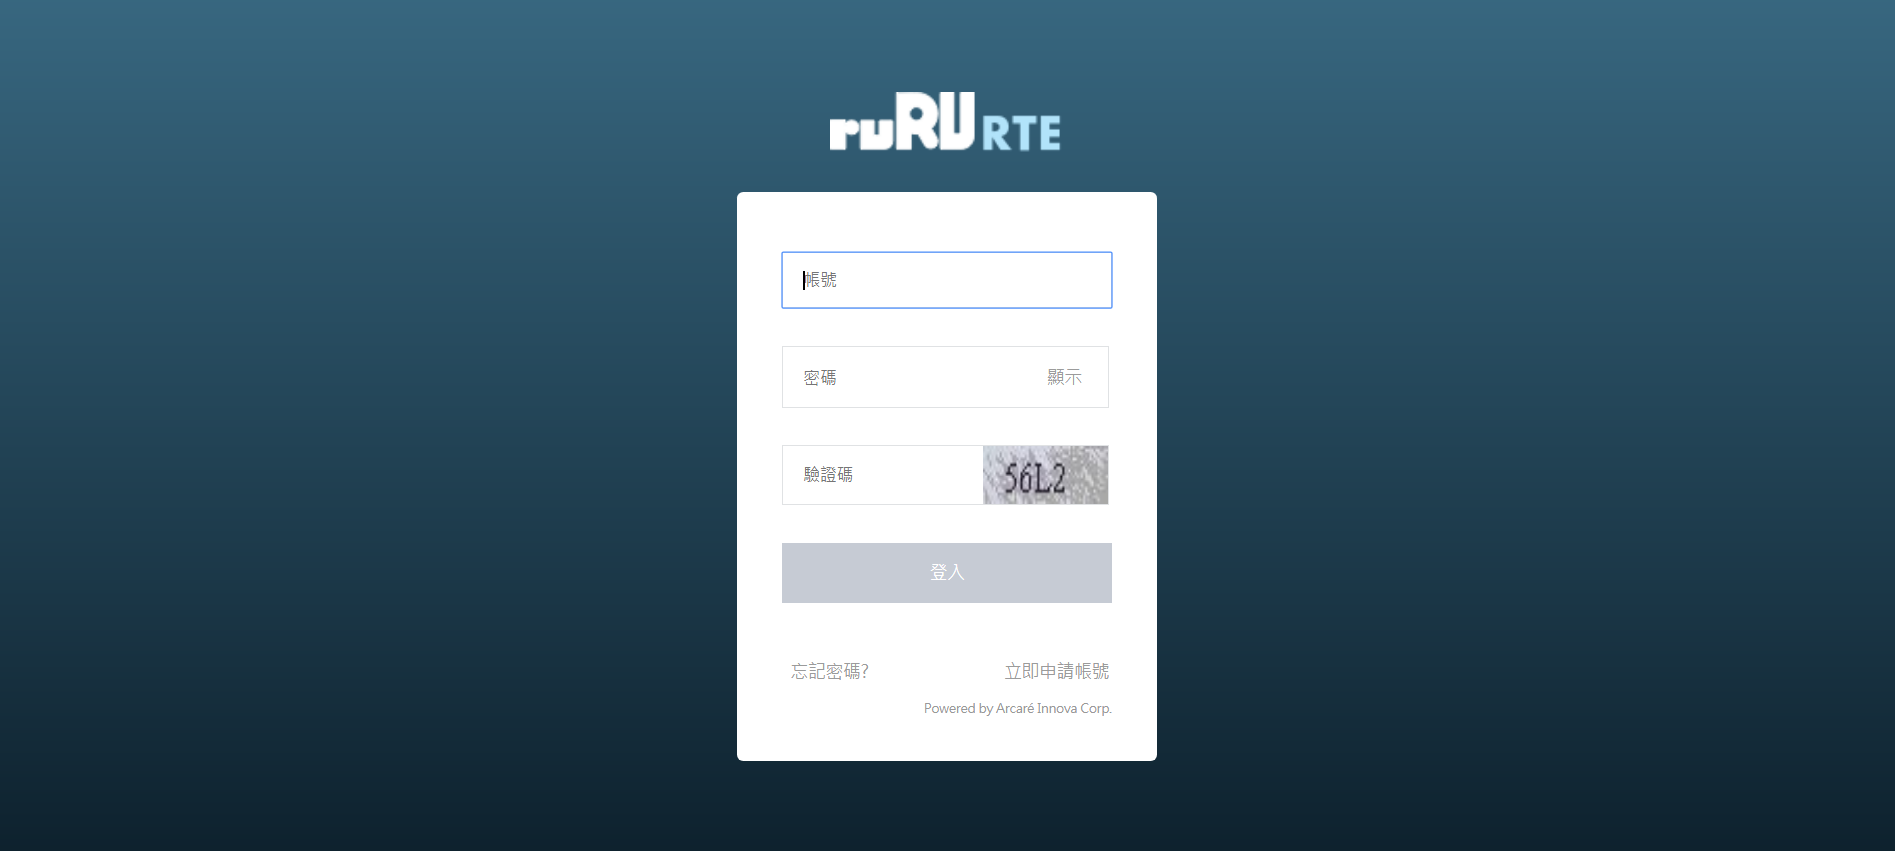
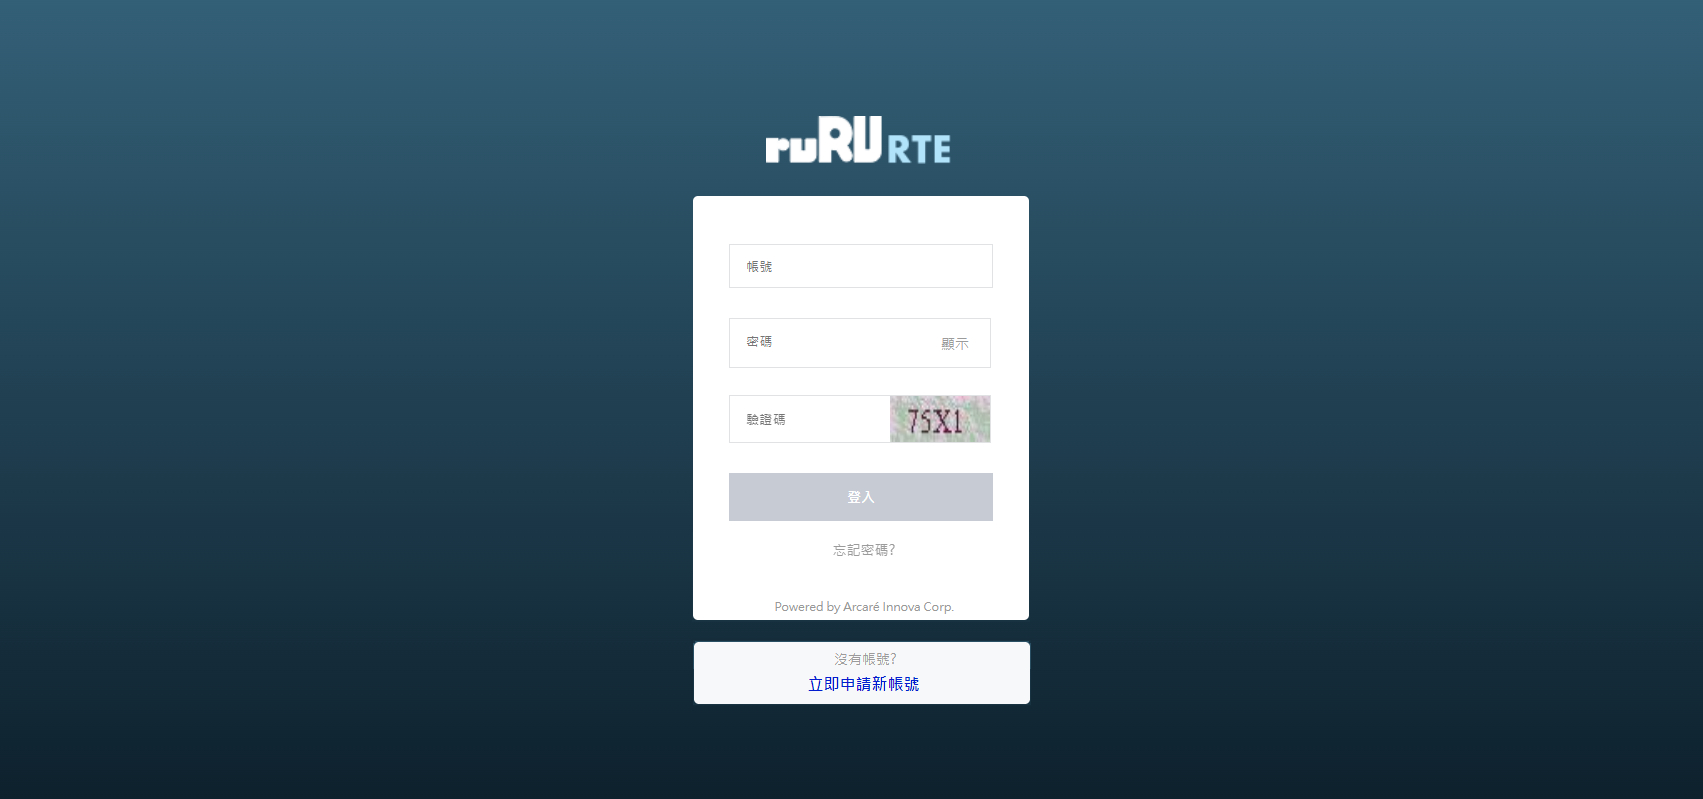
#9138 RTE_提供帳號自動生效 (SA文件) 異動登入畫面

Changed region(s): [[0.3735, 0.0901, 0.6224, 0.9011]]

diff --git a/8.10.2/RTE/SYSTEM/APPLYACCOUNT/README.md b/8.10.2/RTE/SYSTEM/APPLYACCOUNT/README.md
@@ -124,9 +124,9 @@
                 ![申請帳號畫面3_1]
                 
         * 通過驗證，判斷瀏覽器的連結網址是否存在帳號生效參數設定的唯一號
-            * 存在參數唯一號 且 帳號生效方式=自動，由系統自動建立申請帳號的資訊並生效
+            * 存在參數唯一號 且 連結生效 ，由系統自動建立申請帳號的資訊並生效
                 * 預設給該帳號，參數唯一號指定的系統、組織，及角色權限
-            * 不存在參數唯一號 或 參數唯一號已失效，僅建立申請帳號資訊，但帳號不生效
+            * 不存在參數唯一號 或 (存在參數唯一號 且 連結失效)，僅建立申請帳號資訊，但帳號不生效
 
 
 ### <div id="action">作業流程</div>

diff --git a/8.10.2/UPDATE/ITEM_14/RTE/README.md b/8.10.2/UPDATE/ITEM_14/RTE/README.md
@@ -25,7 +25,7 @@
     * 由介面.選單權限建置作業，按鈕.取得連結，開啟本單
     * 規格文件，請看: [取得連結][link_getRoleURL]
   * 異動介面.企業資料
-    * 增加欄位.驗證碼等待驗證時間，預設: **300**秒，最小輸入值 **60**秒
+    * 增加欄位.郵件驗證碼等待時間，預設: **300**秒，最小輸入值 **60**秒
     * 規格文件，請看: [企業資料][link_enterprisedetail]
   * 異動介面.帳號申請
     * 當瀏覽器的連結網址存在帳號生效參數設定的唯一號，預設帶入企業代號，並跳過介面.**請輸入企業名稱**

diff --git a/8.10.2/RTE/SITE/RoleOfPeopleSet/README.md b/8.10.2/RTE/SITE/RoleOfPeopleSet/README.md
@@ -7,11 +7,15 @@
 
 ## <div id="object-desc">欄位說明</div>
 
+* 按鈕.刪除
+    * <ps>待補原規格</ps>
+    * 依 **企業代碼+系統全唯碼+組織全唯碼+角色代號**，刪除介面.[取得連結][link_getRoleURL]
 * 按鈕.取得連結
     * 無條件 致能
     * 點擊按鈕，執行下列動作
         * 依系統+組織+角色，判斷連結URL是否存在，不存在，則新增
         * 開啟介面.[取得連結][link_getRoleURL], 傳入.系統、組織、角色
+        
 
 
 ### <div id="action">動作流程</div>

diff --git a/8.10.2/RTE/SYSTEM/LOGIN/README.md b/8.10.2/RTE/SYSTEM/LOGIN/README.md
@@ -28,6 +28,7 @@
 * 待補
 
 ### <div id="applyaccount">申請帳號 <path>(畫面說明)</path></div>
+* 當瀏覽器的連結網址存在帳號生效參數設定的唯一號，即使Site系統服務介面.**其他參數**的欄位.**開放帳號申請**未勾選，畫面仍顯示**申請新帳號**的連結
 * 開啟表單.[申請帳號](../APPLYACCOUNT/README.md)
 
 ### <div id="login">登入 <path>(畫面說明)</path></div>
